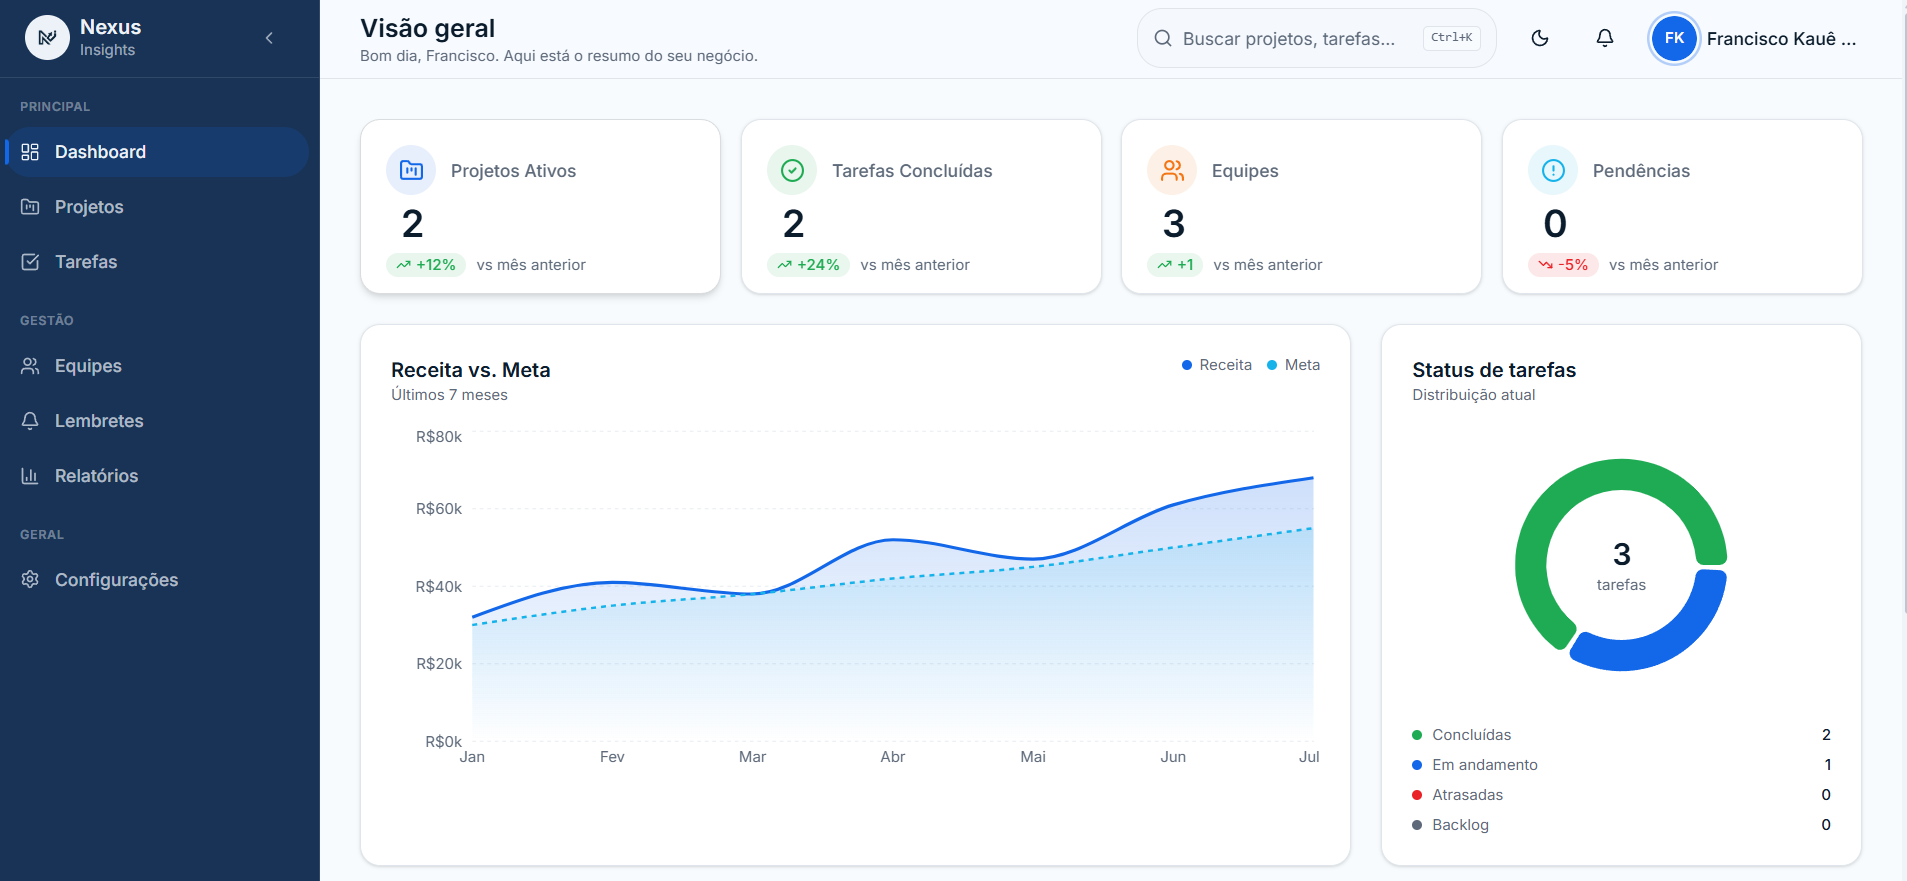
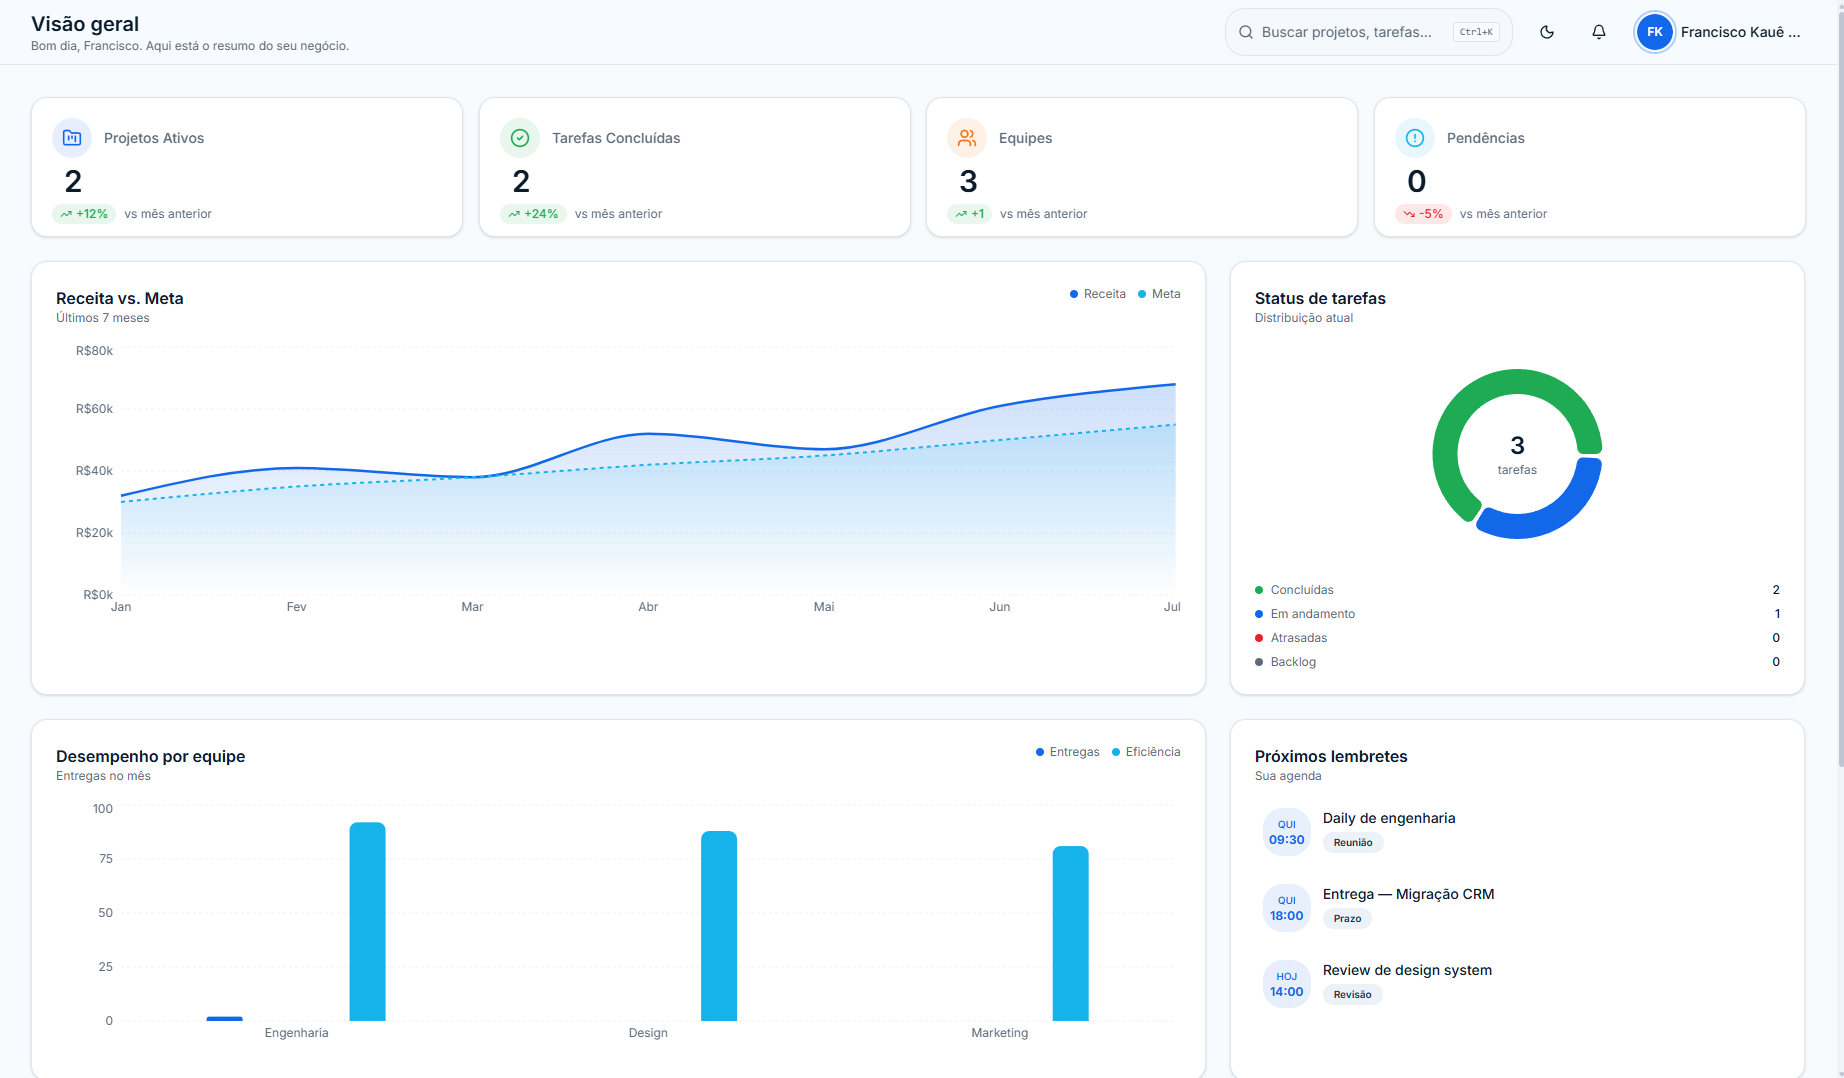
Adiciona projeto Nexus Insight

diff --git a/components/sections/Projects.tsx b/components/sections/Projects.tsx
@@ -66,25 +66,6 @@ const projectsData: readonly Project[] = [
   },
   {
     kind: 'featured',
-    title: 'Assistente Pessoal',
-    description:
-      'Plataforma completa de gestão pessoal e financeira, controle de receitas e gastos, analytics, metas, tarefas e projeções financeiras.',
-    image: '/projects/mygestor.png',
-    technologies: [ 'PHP 8',
-      'MySQL',
-      'Bootstrap',
-      'JavaScript',
-      'PDO',
-      'Composer',
-      'Dompdf',
-      'Apache',],
-    filters: ['Full stack'],
-    demo: 'https://codesky.com.br/demolaboratorio',
-    hideDemo: false,
-    hasCredentials: false,
-  },
-  {
-    kind: 'featured',
     title: 'Nexus Insight',
     description:
       'Dashboard empresarial com KPIs, projetos, tarefas, equipes, lembretes e relatórios.',
